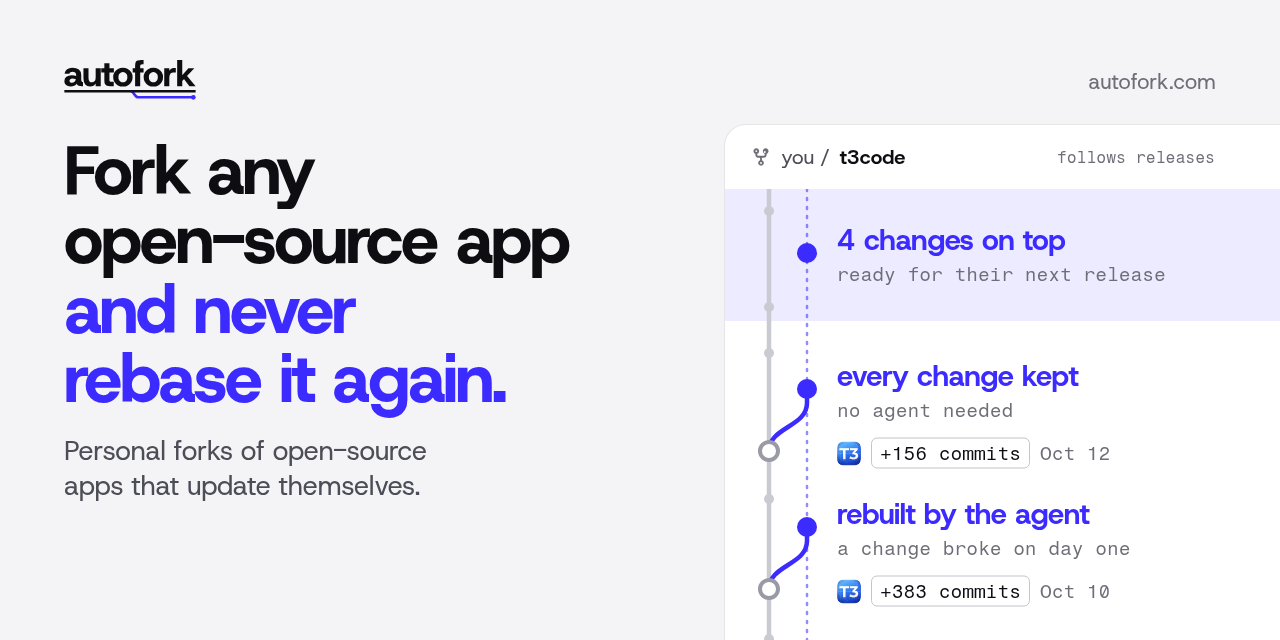
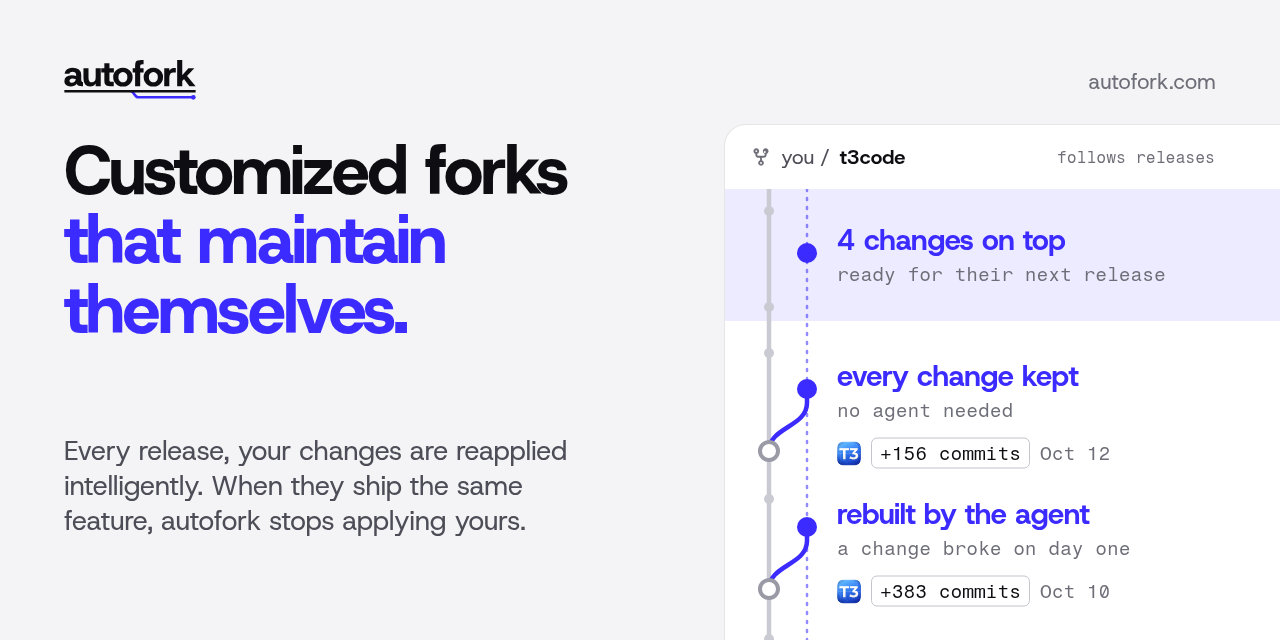
Messaging: Bassim's new pitch, "Customized forks that maintain themselves." over his own sub line, upstream line for developer spots, rebase kept only in the proof line and tweet 1; OG, social preview and README headers re-rendered
Claude-Session: https://claude.ai/code/session_01LaCvuBXpr4oFdToWP6F1Dg

Changed region(s): [[0.0312, 0.2188, 0.4688, 0.6562], [0.0312, 0.6875, 0.4375, 0.8438]]

diff --git a/brand/readme/header-dark.html b/brand/readme/header-dark.html
@@ -10,6 +10,6 @@
   <circle class="dot" cx="70" cy="196" r="7"/>
 </svg>
 <img class="wm" src="../logo/autofork-dark.svg" alt="">
-<h1><span>Fork any open-source app</span><span class="you">and never rebase it again.</span></h1>
+<h1><span>Customized forks</span><span class="you">that maintain themselves.</span></h1>
 </body>
 </html>

diff --git a/brand/readme/header-light.html b/brand/readme/header-light.html
@@ -10,6 +10,6 @@
   <circle class="dot" cx="70" cy="196" r="7"/>
 </svg>
 <img class="wm" src="../logo/autofork.svg" alt="">
-<h1><span>Fork any open-source app</span><span class="you">and never rebase it again.</span></h1>
+<h1><span>Customized forks</span><span class="you">that maintain themselves.</span></h1>
 </body>
 </html>

diff --git a/brand/copy/MESSAGING.md b/brand/copy/MESSAGING.md
@@ -4,10 +4,11 @@ The source of truth for how the site, OG image, README and launch post talk abou
 
 ## The pitch
 
-- **Headline:** Fork any open-source app and never rebase it again.
-- **Sub line:** Personal forks of open-source apps that update themselves.
+- **Headline:** Customized forks that maintain themselves.
+- **Sub line:** Every release, your changes are reapplied intelligently. When they ship the same feature, autofork stops applying yours.
+- **Developer sub line** (README, npm, CLI, repo descriptions): Personal forks of open-source apps that auto-track upstream.
 
-Both are Simon's (Oct 13), picked by Bassim as the pair: the headline on top, the sub line right under it. Use them word for word, together, everywhere the pitch leads: the site's hero, the link preview, the OG image, the README, the repo descriptions. They replace "Make it yours. / Keep their updates." and its sub line, which Simon found hard to understand; neither appears anymore.
+Bassim picked these Oct 13 (http://100.113.223.113:4800/afcopy): the headline is his "automaintained customized forks" in plain words, the sub line his own, the developer line his "personal forks auto track upstream". They replace Simon's "Fork any open-source app and never rebase it again." / "Personal forks of open-source apps that update themselves.", which Bassim found "too heavy on the never rebased", and before that "Make it yours. / Keep their updates.".
 
 ## The key lines
 
@@ -18,7 +19,7 @@ Say these in this order when there's room for more than the pitch. Each one is t
 3. **Where it runs:** In your fork's own GitHub Actions, on the ChatGPT or Claude plan you already pay for. Free on public forks.
 4. **Proof:** My T3 Code fork took 156 commits from T3 Code in its first two days, and I never rebased it. One change broke on day one and the agent rebuilt it. (`facts.json`)
 
-The one-sentence version: Fork any open-source app and never rebase it again: autofork keeps your changes on top of every new release, and an agent rebuilds any that break.
+The one-sentence version: Customized forks that maintain themselves: autofork reapplies your changes on every new release, and an agent rebuilds any that break.
 
 ## Why this pitch
 
@@ -26,7 +27,7 @@ The new part isn't forking: a fork always keeps your changes. It's that a change
 
 Bassim's words, verbatim, for the launch and the about line: "i can fork and customize anything, the agents will autonomously track upstream and re-implement my changes."
 
-Who it's for: anyone who's wished an open-source app worked a little differently, and anyone who's kept a fork and paid for it in rebases. "Rebase" is the one developer word in the pitch, on purpose: it names the pain a forker already knows, and the sub line says the rest in plain words for everyone else.
+Who it's for: anyone who's wished an open-source app worked a little differently, and anyone who's kept a fork and paid for it in rebases. "Rebase" names the pain a forker already knows, so it appears twice, as fact and as problem: the proof line ("I never rebased it") and launch tweet 1 ("you're rebasing it on every release they ship"). Nowhere else.
 
 ## Name
 
@@ -34,8 +35,8 @@ autofork, one word, lowercase, even at the start of a sentence. One name for eve
 
 ## Hero
 
-- **Headline:** Fork any open-source app / and never rebase it again. Two rows: the first on their line, the second in your color on the branch.
-- **Sub line:** Personal forks of open-source apps that update themselves.
+- **Headline:** Customized forks / that maintain themselves. Two rows: the first on their line, the second in your color on the branch.
+- **Sub line:** Every release, your changes are reapplied intelligently. When they ship the same feature, autofork stops applying yours.
 - **The action:** one rounded composer that types out examples: the app as a badge (like T3 Code's composer chips) that rolls through apps people fork (T3 Code, herdr, Ghostty, Buzz, pi, cmux, tmux, UTM) and lands on one, then the change types out. T3 Code and "always show context usage" come first. Focusing it stops the typing and leaves that example as the placeholder. Button: **Fork it**.
 - **Sign-in, right under it:** **Continue with ChatGPT** and **Continue with Claude**, side by side, both live.
 - **One small line under the buttons:** Runs on the ChatGPT or Claude plan you already pay for.
@@ -75,19 +76,19 @@ The site ships the same day as the product. These lines describe the product Bas
 
 ## Meta
 
-- **Title:** autofork: fork any open-source app and never rebase it again
-- **Description:** Personal forks of open-source apps that update themselves. Each new release, your changes go back on top, and an agent rebuilds any that break.
+- **Title:** autofork: customized forks that maintain themselves
+- **Description:** Every release, your changes are reapplied intelligently. When they ship the same feature, autofork stops applying yours.
 - **Site:** https://autofork.com (autofork.dev redirects to it)
-- **GitHub repo description (autofork):** Fork any open-source app and never rebase it again. Personal forks that update themselves: your changes go back on top of every release, and an agent rebuilds any that break.
+- **GitHub repo description (autofork):** Customized forks that maintain themselves. Personal forks of open-source apps auto-track upstream: every release, your changes are reapplied, and an agent rebuilds any that break.
 - **GitHub repo description (autofork-app):** The app behind autofork.com: name an open-source app and what you'd change, and get a personal fork that updates itself.
-- **npm and package.json description:** Fork any open-source app and never rebase it again. Your changes go back on top of every release, and an agent rebuilds any that break.
+- **npm and package.json description:** the same as the autofork repo description.
 
 ## OG image (1200×630)
 
-- **Big:** Fork any open-source app / and never rebase it again. Four rows, balanced; the second sentence half in your color.
-- **Under it:** Personal forks of open-source apps that update themselves.
+- **Big:** Customized forks / that maintain themselves. Three rows; the second half in your color.
+- **Under it:** Every release, your changes are reapplied intelligently. When they ship the same feature, autofork stops applying yours.
 - **Small:** autofork.com
-- **Alt:** autofork: Fork any open-source app and never rebase it again. Personal forks of open-source apps that update themselves.
+- **Alt:** autofork: Customized forks that maintain themselves. Every release, your changes are reapplied intelligently. When they ship the same feature, autofork stops applying yours.
 - **The T3 Code fork's card**, three true moments from `facts.json` and `launch.md`, newest on top: 4 changes on top, ready for their next release; every change kept, +156 commits, Oct 12; rebuilt by the agent, a change broke on day one, +383 commits, Oct 10.
 
 The composer left the image when the pitch got longer: the headline and its sub line need the room, and the card already shows a fork taking releases. The same file renders the GitHub social preview at 1280×640.
@@ -97,7 +98,7 @@ No line appears twice (Bassim, Oct 13: "the open graph image repeats itself... t
 ## What it isn't
 
 - **Not nightly, not a schedule.** It follows the app's releases by default (skipping pre-releases); a branch is an option. The hourly check is git only. Never write "every night" or "nightly". Bassim: "It should just be based on full fucking releases."
-- **Not hands-off forever.** If a rebuilt change fails the fork's checks, nothing lands. "Update themselves" is the sub line and true: the fork takes each release on its own. Beyond it, never "maintains itself", "zero maintenance", "never breaks".
+- **Not hands-off forever.** If a rebuilt change fails the fork's checks, nothing lands. "Maintain themselves" is the headline and Bassim's call (Oct 13): the fork takes each release on its own, and stopping to ask you when they ship the same feature is picking, not maintaining. Beyond it, never "zero maintenance" or "never breaks".
 - **Not an agent on every release.** Changes that still fit go on with git. The agent runs only when one breaks.
 - **Not API billing.** It runs on the plan the user already has. Bassim: "Nobody should ever be using Claude models with API prices."
 - **Not hands-off when they catch up.** When the original ships its own version of a change, autofork pauses it and asks. It never quietly picks for you.
@@ -107,10 +108,10 @@ No line appears twice (Bassim, Oct 13: "the open graph image repeats itself... t
 
 Plain words, like a person who built it. Short sentences, real numbers.
 
-- On the site, for everyone: fork, change, release, update, rebuild, your GitHub, your plan. "Rebase" appears in the headline and the proof line ("I never rebased it"), nowhere else on the page. "Open-source" takes its hyphen before a noun, and never breaks across lines. The original's makers are "they" ("their updates", "they ship"), or the app's name. Not "upstream" on the page, except in footnotes and the real issue title. "Patch" appears once, in section 3, where it's the real file.
+- On the site, for everyone: fork, change, release, update, rebuild, your GitHub, your plan. "Rebase" appears in the proof line ("I never rebased it"), nowhere else on the page. "Open-source" takes its hyphen before a noun, and never breaks across lines. The original's makers are "they" ("their updates", "they ship"), or the app's name. Not "upstream" on the page, except in footnotes and the real issue title; it belongs in the README, the launch post and the repo descriptions. "Patch" appears once, in section 3, where it's the real file.
 - `PATCH.md`, `heal`, `verify`, `follow`, `.autofork/` belong in the README and section 6, not above it.
 - Only the managed platform is "coming soon". Not "waitlist" on the page.
 - The user picks: "your fork", "what you'd change". Never a role we hand them.
-- No: self-maintaining, autonomous fork, forever, AI-powered, magic, seamless, effortless, supercharge, unlock, unleash, slop.
+- No: autonomous fork, forever, AI-powered, magic, seamless, effortless, supercharge, unlock, unleash, slop.
 - No em dashes. No setup-and-punchline lines on the site. No feature lists.
 - Sentence case on the site. Lowercase in the launch post.

diff --git a/brand/copy/launch.md b/brand/copy/launch.md
@@ -1,6 +1,6 @@
 # autofork launch
 
-The launch is an 8-tweet X thread, each tweet with its video or image, the link in the last one. The pitch is the site's: "Fork any open-source app and never rebase it again." over "Personal forks of open-source apps that update themselves." (`copy/MESSAGING.md`). Bassim's voice: lowercase, problem first, greentext. Every number comes from `copy/facts.json`.
+The launch is an 8-tweet X thread, each tweet with its video or image, the link in the last one. The pitch is the site's: "Customized forks that maintain themselves." over "Every release, your changes are reapplied intelligently. When they ship the same feature, autofork stops applying yours." (`copy/MESSAGING.md`). Bassim's voice: lowercase, problem first, greentext. Every number comes from `copy/facts.json`.
 
 ## The thread
 
@@ -10,9 +10,9 @@ The type video (6/) and the demo video (2/) use the same music track. Swap one b
 1/ [video: video/saves/out/video.mp4]
 t3 code's readme says big features won't be merged. it also says they want you to have everything you need to fork it
 
-but a fork with your changes falls behind every release they ship
+but keep a fork with your changes and you're rebasing it on every release they ship
 
-so i made autofork. fork any open-source app and never rebase it again
+so i made autofork: customized forks that maintain themselves
 
 2/ [video: video/demo/out/video.mp4]
 > name an open source app and what you'd change. sign in with chatgpt or claude
